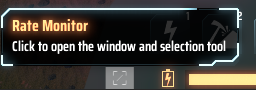
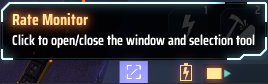
[RateMonitor] v0.3.2

diff --git a/RateMonitor/src/QuickBarButton.cs b/RateMonitor/src/QuickBarButton.cs
@@ -43,9 +43,10 @@ namespace RateMonitor
                 enableButton.onClick += OnButtonClick;
                 enableButton.tips.corner = 8;
                 enableButton.tips.tipTitle = "Rate Monitor";
-                enableButton.tips.tipText = "Click to open the window and selection tool";
-                enableButton.transitions[0].highlightColorOverride = new Color(0.6f, 0.6f, 0.6f, 0.1f); // button background
-                enableButton.transitions[1].highlightColorOverride = new Color(1.0f, 1.0f, 1.0f, 1.0f); // icon color blue
+                enableButton.tips.tipText = "Click to open/close the window and selection tool";
+                enableButton.transitions[1].normalColor = new Color(1.0f, 1.0f, 1.0f, 0.8f); // icon color
+                enableButton.transitions[1].mouseoverColor = new Color(1.0f, 1.0f, 1.0f, 1.0f);
+                enableButton.transitions[0].mouseoverColor = new Color(0.6f, 0.6f, 1.0f, 0.2f); //background color
             }
             catch (System.Exception ex)
             {
@@ -57,13 +58,21 @@ namespace RateMonitor
 
         public static void OnButtonClick(int _)
         {
-            if (Plugin.MainTable == null) // Window is not open
+            if (Plugin.MainTable == null) // When window is not open, open window and enable selection tool
             {
                 if (!Plugin.LoadLastTable()) Plugin.CreateMainTable(null, new List<int>(0));
+                if (VFInput.readyToBuild) SelectionTool_Patches.SetEnable(true);
             }
-            if (VFInput.readyToBuild)
+            else // When window is open, close window and disable selection tool 
             {
-                SelectionTool_Patches.activateInNextTick = true;
+                if (VFInput.control) // Holding control: enable selection tool
+                {
+                    if (VFInput.readyToBuild) SelectionTool_Patches.SetEnable(true);
+                    return;
+                }
+                Plugin.SaveCurrentTable();
+                Plugin.MainTable = null;
+                SelectionTool_Patches.SetEnable(false);
             }
         }
 

diff --git a/RateMonitor/src/UI/UIWindow.cs b/RateMonitor/src/UI/UIWindow.cs
@@ -31,6 +31,15 @@ namespace RateMonitor.UI
             if (Instance == null) Instance = new UIWindow();
             if (Instance.Table != Plugin.MainTable) Instance.Init(Plugin.MainTable);
 
+            // 當ESC時，關閉視窗
+            if (VFInput.escape)
+            {
+                VFInput.UseEscape();
+                Plugin.SaveCurrentTable();
+                Plugin.MainTable = null;
+                return;
+            }
+
             // Use custom skin so it doesn't affect other mods
             if (!Utils.IsInit)
             {
@@ -93,7 +102,7 @@ namespace RateMonitor.UI
         private void DrawWindow(int windowID)
         {
             // Draw close button
-            if (GUI.Button(new Rect(windowRect.width - 3 - (Utils.BaseScale + 4), 3, Utils.BaseScale + 4, Utils.BaseScale + 4), "X")) // 20
+            if (GUI.Button(new Rect(windowRect.width - 3 - (Utils.BaseScale + 4), 3, Utils.BaseScale + 4, Utils.BaseScale + 4), "X"))
             {
                 Plugin.SaveCurrentTable();
                 Plugin.MainTable = null;
@@ -136,6 +145,7 @@ namespace RateMonitor.UI
             GUILayout.Label(titleText);
             GUILayout.FlexibleSpace();
 
+            // 回到上一個選取
             if (GUILayout.Button("<", GUILayout.Width(Utils.BaseScale * 2)))
             {
                 Plugin.LoadLastTable();

diff --git a/RateMonitor/src/UI/SettingPanel.cs b/RateMonitor/src/UI/SettingPanel.cs
@@ -52,7 +52,7 @@ namespace RateMonitor.UI
             }
             for (int i = 0; i < 3; i++)
             {
-                if (GUILayout.Button(SP.perBeltTexts[i], GUILayout.Width(Utils.InputWidth - 10)))
+                if (GUILayout.Button(SP.perBeltTexts[i], GUILayout.Width(Utils.MediumButtonWidth - 2)))
                 {
                     ModSettings.RateUnit.Value = use4stack ? CalDB.BeltSpeeds[i] * 4 : CalDB.BeltSpeeds[i];
                     RefreshInputs();
@@ -72,6 +72,11 @@ namespace RateMonitor.UI
             if (GUILayout.Button("-1", GUILayout.Width(Utils.RateWidth))) CalDB.CountMultiplier -= 1;
             if (GUILayout.Button("+1", GUILayout.Width(Utils.RateWidth))) CalDB.CountMultiplier += 1;
             if (GUILayout.Button("+5", GUILayout.Width(Utils.RateWidth))) CalDB.CountMultiplier += 5;
+            if (GUILayout.Button(SP.recalculateText, GUILayout.Width(Utils.InputWidth)))
+            {
+                var entityIds = Plugin.MainTable.GetEntityIds(out var factory);
+                Plugin.CreateMainTable(factory, entityIds);
+            }
             GUILayout.FlexibleSpace();
             GUILayout.EndHorizontal();
             if (CalDB.CountMultiplier < 1) CalDB.CountMultiplier = 1;

diff --git a/RateMonitor/src/UI/Utils.cs b/RateMonitor/src/UI/Utils.cs
@@ -11,8 +11,9 @@ namespace RateMonitor.UI
         public static float IconHeight = 32;
         public static float RateWidth = 56;
         public static float ShortButtonWidth = 72;
-        public static float LargeButtonWidth = 200;
+        public static float MediumButtonWidth = 86;
         public static float InputWidth = 100;
+        public static float LargeButtonWidth = 200;
 
         static GUILayoutOption[] iconoptions;
         static GUIContent iconTextContent;
@@ -28,6 +29,7 @@ namespace RateMonitor.UI
             IconHeight = 32 * scale;
             RateWidth = 56 * scale;
             ShortButtonWidth = 72 * scale;
+            MediumButtonWidth = 86 * scale;
             LargeButtonWidth = 200 * scale;
             InputWidth = 100 * scale;
             iconoptions = new[] { GUILayout.Width(IconHeight), GUILayout.Height(IconHeight) };

diff --git a/RateMonitor/src/SP.cs b/RateMonitor/src/SP.cs
@@ -30,6 +30,7 @@
         public static string backButtonText;
         public static string entityCountText;
         public static string countMultiplierText;
+        public static string recalculateText;
 
         // Operaction Panel
         public static string addActionText;
@@ -90,6 +91,7 @@
             backButtonText = isZHCN ? "返回" : "Back".Translate();
             entityCountText = isZHCN ? "建筑数量: " : "EntityCount: ".Translate();
             countMultiplierText = isZHCN ? "建筑数量倍数" : "Count Multiplier".Translate();
+            recalculateText = isZHCN ? "重新计算" : "Recalculate".Translate();
 
             // Operaction Panel
             addActionText = isZHCN ? "添加选取" : "Add Selection".Translate();

diff --git a/RateMonitor/src/SelectionTool_Patches.cs b/RateMonitor/src/SelectionTool_Patches.cs
@@ -7,7 +7,20 @@ namespace RateMonitor
     public class SelectionTool_Patches
     {
         public static SelectionTool tool;
-        public static bool activateInNextTick;
+        static bool activateInNextTick;
+
+        public static void SetEnable(bool active)
+        {
+            if (active)
+            {
+                activateInNextTick = true;
+            }
+            else if (tool != null)
+            {
+                tool.IsEnable = false;
+            }
+        }
+
 
         [HarmonyPrefix]
         [HarmonyPatch(typeof(PlayerController), nameof(PlayerController.GameTick))]

diff --git a/RateMonitor/src/PluginCAPIcompat.cs b/RateMonitor/src/PluginCAPIcompat.cs
@@ -27,7 +27,7 @@ namespace RateMonitor
                 name = "RateMonitorSelectionToolKey",
                 canOverride = true
             });
-            LocalizationModule.RegisterTranslation("RateMonitorSelection", "(Mod) RateMonitor Selection", "(Mod) RateMonitor框选计算", "(Mod) Rate Monitor Selection");
+            LocalizationModule.RegisterTranslation("KEYRateMonitorSelectionToolKey", "(RateMonitor) Enable Selection Tool", "(RateMonitor) 启用框选工具", "(RateMonitor) Selection Tool");
             IsRegisiter = true;
         }
 

diff --git a/RateMonitor/src/Plugin.cs b/RateMonitor/src/Plugin.cs
@@ -16,7 +16,7 @@ namespace RateMonitor
     {
         public const string GUID = "starfi5h.plugin.RateMonitor";
         public const string NAME = "RateMonitor";
-        public const string VERSION = "0.3.1";
+        public const string VERSION = "0.3.2";
 
         public static ManualLogSource Log;
         public static Plugin instance;

diff --git a/RateMonitor/CHANGELOG.md b/RateMonitor/CHANGELOG.md
@@ -1,5 +1,11 @@
 # Changelog
 
+## v0.3.2
+- Change button behavior: Clicking the button when the window is open will now close the window and selection tool.
+If Ctrl is pressed, it will activate the selection tool instead.  
+- Esc can now close the widow.
+- Add the 'Recalculate' button to the expanded title to refresh the building settings of selected machines.
+
 ## v0.3.1
 - Add a button besides mecha energy bar to open mod window and selection tool (configurable).  
 - Reorganize config group. Some UI settings may be reset.  
